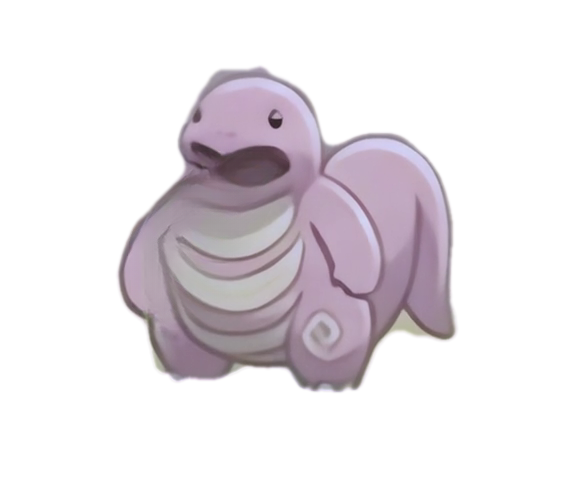
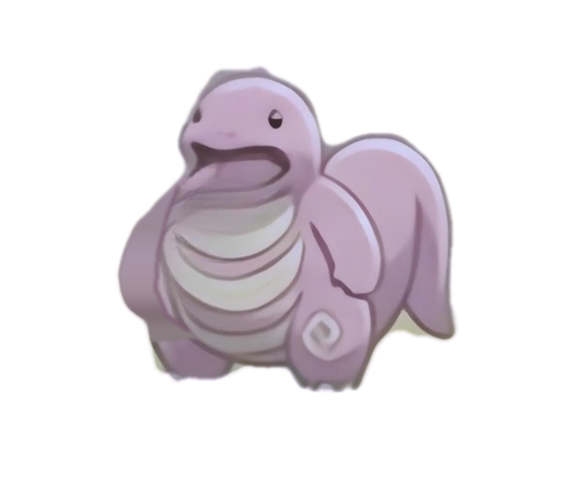
Draw him a left arm, and keep the mouth when the tongue goes in
"혀 집어넣었을때 몸부분 텍스쳐가 상당히 이상해" — 두 가지가 겹쳐 있었다.

1) 마스크가 입까지 덮어서 LaMa가 입술선을 잃고 큼직한 검은 덩어리를 그렸다.
   마스크 윗변을 입 아래(y≈174)로 내리니 열린 입이 원본 그대로 남아 "혀를
   집어넣은 얼굴"이 된다. 그래서 다각형이 둘이 됐다 — 지울 범위와 잘라낼 혀
   (혀는 입 안 뿌리까지 포함해야 입에서 나오는 것처럼 보인다).

2) 혀가 왼팔을 거의 다 가리고 있어서, 혀를 지우면 원본에 **없는 팔**이
   필요하다. LaMa는 그 자리에 배 줄무늬를 늘려 발라놨다. 실루엣(알파)은 안
   바뀌므로 필요한 건 팔과 몸을 가르는 윤곽선과 그 왼쪽의 팔 색뿐이라, 그걸
   그려 넣는다. 팔 색은 실루엣 왼쪽 가장자리 14px 평균을 가로로 늘려 쓴다 —
   세로 밝기 변화가 살아서 통통해 보이고, 변형별로 다시 뽑으므로 밤·비에서도
   안 튄다. 사용자가 준 참고그림의 구조(옆구리에 붙은 통통한 로브 + 깔끔한
   크림 배)를 따랐다. 참고그림 자체를 이식하는 건 정면·다른 비율이라 기하가
   안 맞고, 오른팔을 거울로 뒤집는 것도 이음매가 심해서 못 썼다(둘 다 실측).

같이: 나비가 앉으면 스프라이트 영상까지 세운다("나비랑 좌표가 안 맞잖아").
나비는 #naeru-brow(고정 %)를 따라가는데 영상 속 얼굴은 계속 움직이므로 영상을
그대로 두면 코에 붙어 있질 못한다. 세우는 프레임은 혀와 같은 기준 프레임 79,
#naeru-brow도 그 프레임의 눈 중점(크롭 243.5, 119.5)으로 옮겼다. 도착이 그
프레임이 되도록 비행 시간만큼 앞에서 출발한다.

8변형 전부 실제 화면 크기로 확인. ASSET_V 20260905a → b.

Claude-Session: https://claude.ai/code/session_01DfXVxXN3TYLX1vj93jJ6MP

Changed region(s): [[0.1875, 0.2722, 0.5, 0.6956]]

diff --git a/index.html b/index.html
@@ -113,9 +113,10 @@
      렌더 위치를 그대로 읽을 수 있다. 프레임 좌표 (1995,1399) → 크롭
      (1744,1328,576,496) 기준 (43.5764%, 14.3145%) */
   #naeru-head { position: absolute; left: 43.5764%; top: 14.3145%; width: 1px; height: 1px; }
-  /* 나비가 앉는 자리 = 두 눈 사이. 루프 7프레임에서 눈을 실측해 평균낸
-     크롭 좌표 (247.8, 116.7) → 576×496 기준 백분율 */
-  #naeru-brow { position: absolute; left: 43.0283%; top: 23.5218%; width: 1px; height: 1px; }
+  /* 나비가 앉는 자리 = 두 눈 사이. 나비는 늘 기준 프레임(79)에서 영상을
+     세우고 앉으므로, 여러 프레임의 평균이 아니라 **그 프레임의** 눈 중점을
+     쓴다 — 실측 크롭 (243.5, 119.5) → 576×496 기준 백분율 */
+  #naeru-brow { position: absolute; left: 42.2743%; top: 24.0927%; width: 1px; height: 1px; }
 
   /* ── 비 레이어: 하늘 프리즈 위에서도 비가 계속 내리도록
      영상이 아닌 DOM에서 렌더. 줄기는 수직 텍스처, 레이어를
@@ -488,7 +489,7 @@ function layoutFrameBox(el) {
      그래서 URL에 판번호를 붙여 한 벌로 받게 한다.
      **bg-*.jpg / naeru-*.* 를 다시 구우면 이 값을 반드시 올릴 것.**
      (배경 영상 meadow-*는 안 바뀌므로 그대로 둔다) */
-  var ASSET_V = "20260905a";
+  var ASSET_V = "20260905b";
   function av(u) { return u + "?v=" + ASSET_V; }
   document.documentElement.dataset.av = ASSET_V;   // 혀 IIFE가 캐시 판번호를 쓴다
 
@@ -1365,6 +1366,17 @@ function layoutFrameBox(el) {
 
   var FIRST = [20000, 50000];
   var GAP   = [70000, 180000];
+  var RETRY = [7000, 14000];
+  /* 앉을 때 영상을 세운다 — **이게 핵심이다.** 나비는 #naeru-brow(고정 %)를
+     따라가는데 영상 속 얼굴은 계속 움직이므로, 영상을 그대로 두면 코에
+     붙어 있질 못한다. 세우는 프레임은 혀 개그와 같은 기준 프레임 79이고,
+     그 프레임의 눈 위치에 맞춰 #naeru-brow를 잡아 뒀다. 핑퐁이라 한 바퀴에
+     두 번(3.29초, 9.875초) 지나가므로, 비행 시간(IN_MS)만큼 앞에서 출발하면
+     도착이 곧 그 프레임이 된다. */
+  var REF_FRAME = 79, FPS = 24, N_FRAMES = 316;
+  var LOOP  = N_FRAMES / FPS;
+  var MARKS = [REF_FRAME / FPS, (N_FRAMES - REF_FRAME) / FPS];
+  var WINDOW = 1.5 / FPS;
   // 두 눈 사이(크롭 좌표로 62px)에 앉으므로 그보다 좁아야 눈을 안 덮는다.
   // 0.023이면 크롭 환산 87px이라 양쪽 눈을 가렸다(실측)
   var SIZE  = 0.016;                    // 프레임 폭 대비 날개폭
@@ -1374,6 +1386,17 @@ function layoutFrameBox(el) {
   var flit  = document.getElementById("flit");
   var wings = document.getElementById("flit-wings");
   var W = 0, H = 0;
+  var vid = null;                       // 이번 방문 동안 세워 둘 영상
+
+  function activeVideo() {
+    var vs = [document.getElementById("naeruA"), document.getElementById("naeruB")];
+    for (var i = 0; i < vs.length; i++) {
+      if (vs[i] && vs[i].classList.contains("on") && vs[i].getAttribute("src") && !vs[i].paused) {
+        return vs[i];
+      }
+    }
+    return null;
+  }
 
   function layout() {
     var box = layoutFrameBox(frame);
@@ -1401,6 +1424,7 @@ function layoutFrameBox(el) {
   }
 
   function leave(dir) {
+    if (vid) { vid.play().catch(function () {}); vid = null; }   // 다시 움직인다
     var from = perch(), t0 = performance.now();
     var to = [dir > 0 ? 1.15 : -0.15, rand(0.12, 0.26)];
     (function step(now) {
@@ -1417,6 +1441,17 @@ function layoutFrameBox(el) {
   }
 
   function sit(dir) {
+    // 코에 닿는 순간 영상을 세운다. 기준 프레임에 맞춰 도착했더라도 rAF와
+    // 영상 시계가 몇 ms 어긋날 수 있으므로 그 프레임으로 스냅한다 —
+    // 한두 프레임 차이는 눈에 안 보이지만 눈 위치는 정확해진다
+    if (vid) {
+      var m = MARKS[0];
+      for (var i = 1; i < MARKS.length; i++) {
+        if (Math.abs(vid.currentTime - MARKS[i]) < Math.abs(vid.currentTime - m)) m = MARKS[i];
+      }
+      vid.pause();
+      try { vid.currentTime = m + 0.01; } catch (e) {}
+    }
     var t0 = performance.now(), DUR = rand(3500, 6500);
     if (window.naeru) window.naeru.peek(-dir);   // 앉은 쪽으로 갸웃
     (function step(now) {
@@ -1443,8 +1478,8 @@ function layoutFrameBox(el) {
     if (on) holdTimer = setTimeout(function () { window.naeru.hold = false; }, 25000);
   }
 
-  function arrive() {
-    hold(true);                                  // 오는 동안 다른 동작 금지
+  function arrive(v) {
+    vid = v;
     var dir = Math.random() < 0.5 ? 1 : -1;      // 1 = 왼쪽에서 날아옴
     var p0 = [dir > 0 ? -0.15 : 1.15, rand(0.16, 0.30)];
     var t0 = performance.now();
@@ -1462,17 +1497,37 @@ function layoutFrameBox(el) {
     })(t0);
   }
 
-  function schedule(first) {
-    var ms = DEBUG ? (first ? 1500 : 6000)
-                   : rand.apply(null, first ? FIRST : GAP);
+  /* 도착이 곧 기준 프레임이 되도록, 그 프레임보다 비행 시간만큼 앞에서
+     출발한다. 최대 한 바퀴(13.2초)면 반드시 온다 */
+  function waitForLaunch(v) {
+    var giveUp = performance.now() + 16000;
+    (function step(now) {
+      if (!v.isConnected || v.paused || document.hidden || now > giveUp) {
+        hold(false); schedule("retry"); return;
+      }
+      var t = v.currentTime;
+      for (var i = 0; i < MARKS.length; i++) {
+        var launch = (MARKS[i] - IN_MS / 1000 + LOOP) % LOOP;
+        if (Math.abs(t - launch) < WINDOW) { arrive(v); return; }
+      }
+      requestAnimationFrame(step);
+    })(performance.now());
+  }
+
+  function schedule(kind) {
+    var gap = kind === "first" ? FIRST : kind === "retry" ? RETRY : GAP;
+    var ms = DEBUG ? (kind === "first" ? 1500 : 6000) : rand.apply(null, gap);
     setTimeout(function () {
-      if (document.hidden) { schedule(); return; }
-      // 공이 날아오는 중이면 미룬다 — 둘이 동시에 오면 어디를 봐야 할지 모른다
-      if (window.naeru && window.naeru.busy) { schedule(); return; }
-      arrive();
+      if (document.hidden) { schedule("retry"); return; }
+      // 공이 날아오는 중이거나 자체 동작 중이면 미룬다
+      if (window.naeru && (window.naeru.busy || window.naeru.hold)) { schedule("retry"); return; }
+      var v = activeVideo();
+      if (!v) { hold(true); arrive(null); return; }   // 정지본 폴백 등 — 그냥 날아온다
+      hold(true);                                     // 기다리는 동안부터 잡아 둔다
+      waitForLaunch(v);
     }, ms);
   }
-  schedule(true);
+  schedule("first");
 })();
 </script>
 
@@ -1505,7 +1560,7 @@ function layoutFrameBox(el) {
   var MARKS = [REF_FRAME / FPS, (N_FRAMES - REF_FRAME) / FPS];
   var WINDOW = 1.5 / FPS;                          // 이 안에 들어오면 그 프레임으로 본다
   var FIRST = [10000, 22000];
-  var GAP   = [55000, 130000];
+  var GAP   = [35000, 85000];
   var RETRY = [7000, 14000];      // 그림이 아직이거나 다른 동작 중이라 미룰 때
   var IN_MS = 220, HOLD_MS = 420, OUT_MS = 280;
 

diff --git a/tools/naeru-split/tongue.py b/tools/naeru-split/tongue.py
@@ -43,25 +43,74 @@ from coords import CROP_SIZE, VARIANTS
 
 REF = 79                        # 혀가 가장 안정된 프레임. index.html의 TONGUE_FRAME과 같아야 한다
 
-# 크롭 좌표계(576×496)에서 손으로 잡은 혀 다각형
-POLY = [(190, 152), (248, 148), (282, 168), (266, 198), (244, 242),
-        (220, 288), (196, 322), (160, 324), (138, 300), (135, 248),
-        (149, 200), (170, 168)]
+# 크롭 좌표계(576×496)에서 손으로 잡은 혀 다각형. 두 개인 이유:
+#
+#   INPAINT — **윗변이 입 아래(y≈174)에 있다.** 입까지 덮으면 LaMa가 입술선을
+#     잃고 큼직한 검은 덩어리를 그린다(2026-09-05 제보 "몸부분 텍스쳐가 이상해").
+#     입 위쪽 원본을 그대로 두면 열린 입이 살아서 "혀를 집어넣은 얼굴"이 된다.
+#   CUT — 잘라낼 혀. 입 안쪽 뿌리까지 포함해야 혀가 입에서 나오는 것처럼 보인다.
+#     뿌리 구간(y152~174)은 nt에도 원본 그대로 남지만 겹치면 같은 화소라
+#     제자리에선 원본과 똑같고, 혀가 들어가도 그 자국은 실제 크기에서 안 보인다.
+INPAINT_POLY = [(186, 176), (250, 172), (284, 182), (266, 204), (244, 244),
+                (220, 290), (196, 322), (160, 324), (138, 300), (135, 248),
+                (149, 202), (168, 182)]
+CUT_POLY = [(190, 152), (248, 148), (282, 168), (266, 198), (244, 242),
+            (220, 288), (196, 322), (160, 324), (138, 300), (135, 248),
+            (149, 200), (170, 168)]
 DILATE = 13                     # 인페인트 마스크: 윤곽선까지 확실히 덮는다
 ERODE = 5                       # 혀 컷아웃: 다각형을 조금 줄여 몸 화소를 안 물고 나온다
 FEATHER = 1.6
 
+# 혀가 왼팔을 거의 다 가리고 있어서, 혀를 지우면 원본에 **없는 팔**을 그려야
+# 한다. LaMa는 그 자리에 배 줄무늬를 늘려 발라놨다. 실루엣(알파)은 안 바뀌므로
+# 필요한 건 팔과 몸을 가르는 윤곽선과 그 왼쪽의 팔 색뿐이다. 사용자가 준
+# 참고그림에서 왼팔은 옆구리에 붙은 통통한 로브다.
+ARM_EDGE = [(178, 186), (166, 216), (157, 252), (155, 288), (166, 314), (188, 330)]
+ARM_TAIL = [(198, 338), (150, 342), (116, 300), (110, 246), (126, 192), (152, 176)]
+
+
+def draw_arm(base, sp, alpha, arm_shape, arm_line):
+    """팔 색은 실루엣 왼쪽 가장자리(원본에 남아 있는 팔 조각)에서 가져와 가로로
+    늘린다 — 세로 방향 밝기 변화가 살아서 통통한 느낌이 남는다. 변형마다 색이
+    다르므로 변형별로 다시 뽑는다."""
+    a = np.asarray(alpha, np.uint8)
+    src = np.asarray(sp.convert("RGB"), np.float32)
+    fill = src.copy()
+    for y in range(src.shape[0]):
+        xs = np.nonzero(a[y] > 200)[0]
+        if len(xs) == 0:
+            continue
+        fill[y, :] = src[y, xs.min():xs.min() + 14].mean(0)
+    fill = Image.fromarray(fill.astype(np.uint8)).filter(ImageFilter.GaussianBlur(7))
+
+    inside = (a > 200).astype(np.uint8)
+    shape = Image.fromarray((np.asarray(arm_shape, np.uint8) * inside)) \
+                 .filter(ImageFilter.GaussianBlur(1.4))
+    out = Image.composite(fill, base, shape)
+
+    stroke = tuple(int(x) for x in np.percentile(
+        np.asarray(base, np.float32)[240:300, 300:360].reshape(-1, 3), 6, axis=0))
+    line = Image.fromarray((np.asarray(arm_line, np.uint8) * inside)) \
+                .filter(ImageFilter.GaussianBlur(1.5))
+    return Image.composite(Image.new("RGB", base.size, stroke), out, line)
+
 
 def main():
     poly = Image.new("L", CROP_SIZE, 0)
-    ImageDraw.Draw(poly).polygon(POLY, fill=255)
+    ImageDraw.Draw(poly).polygon(INPAINT_POLY, fill=255)
     mask = poly.filter(ImageFilter.MaxFilter(DILATE))       # 지울 범위
     mask.save(B / "tongue-mask.png")
+    cutpoly = Image.new("L", CROP_SIZE, 0)
+    ImageDraw.Draw(cutpoly).polygon(CUT_POLY, fill=255)
+    arm_shape = Image.new("L", CROP_SIZE, 0)
+    ImageDraw.Draw(arm_shape).polygon(ARM_EDGE + ARM_TAIL, fill=255)
+    arm_line = Image.new("L", CROP_SIZE, 0)
+    ImageDraw.Draw(arm_line).line(ARM_EDGE, fill=200, width=4, joint="curve")
     # 잘라낼 범위는 팽창 전 다각형을 조금 줄인 것. **차이(|원본-인페인팅|)로
     # 알파를 만들면 안 된다** — 혀와 메워진 몸이 거의 같은 색이라 차이가
     # 윤곽선에만 잡혀서 속이 빈 혀가 나온다(2026-09-05 실측).
-    cut = poly.filter(ImageFilter.MinFilter(2 * ERODE + 1)) \
-              .filter(ImageFilter.GaussianBlur(FEATHER))
+    cut = cutpoly.filter(ImageFilter.MinFilter(2 * ERODE + 1)) \
+                 .filter(ImageFilter.GaussianBlur(FEATHER))
 
     from simple_lama_inpainting import SimpleLama
     lama = SimpleLama()
@@ -72,7 +121,8 @@ def main():
         rgb, alpha = sp.convert("RGB"), sp.getchannel("A")
 
         filled = lama(rgb, mask).crop((0, 0, CROP_SIZE[0], CROP_SIZE[1]))
-        nt = Image.composite(filled, rgb, mask)
+        nt = draw_arm(Image.composite(filled, rgb, mask), sp, alpha,
+                      arm_shape, arm_line)
         # 혀는 실루엣 안쪽이라 알파가 안 바뀐다 — 원본 알파를 그대로 쓴다
         nt.putalpha(alpha)
         nt.save(REPO / "img" / f"naeru-{v}-nt.png")
